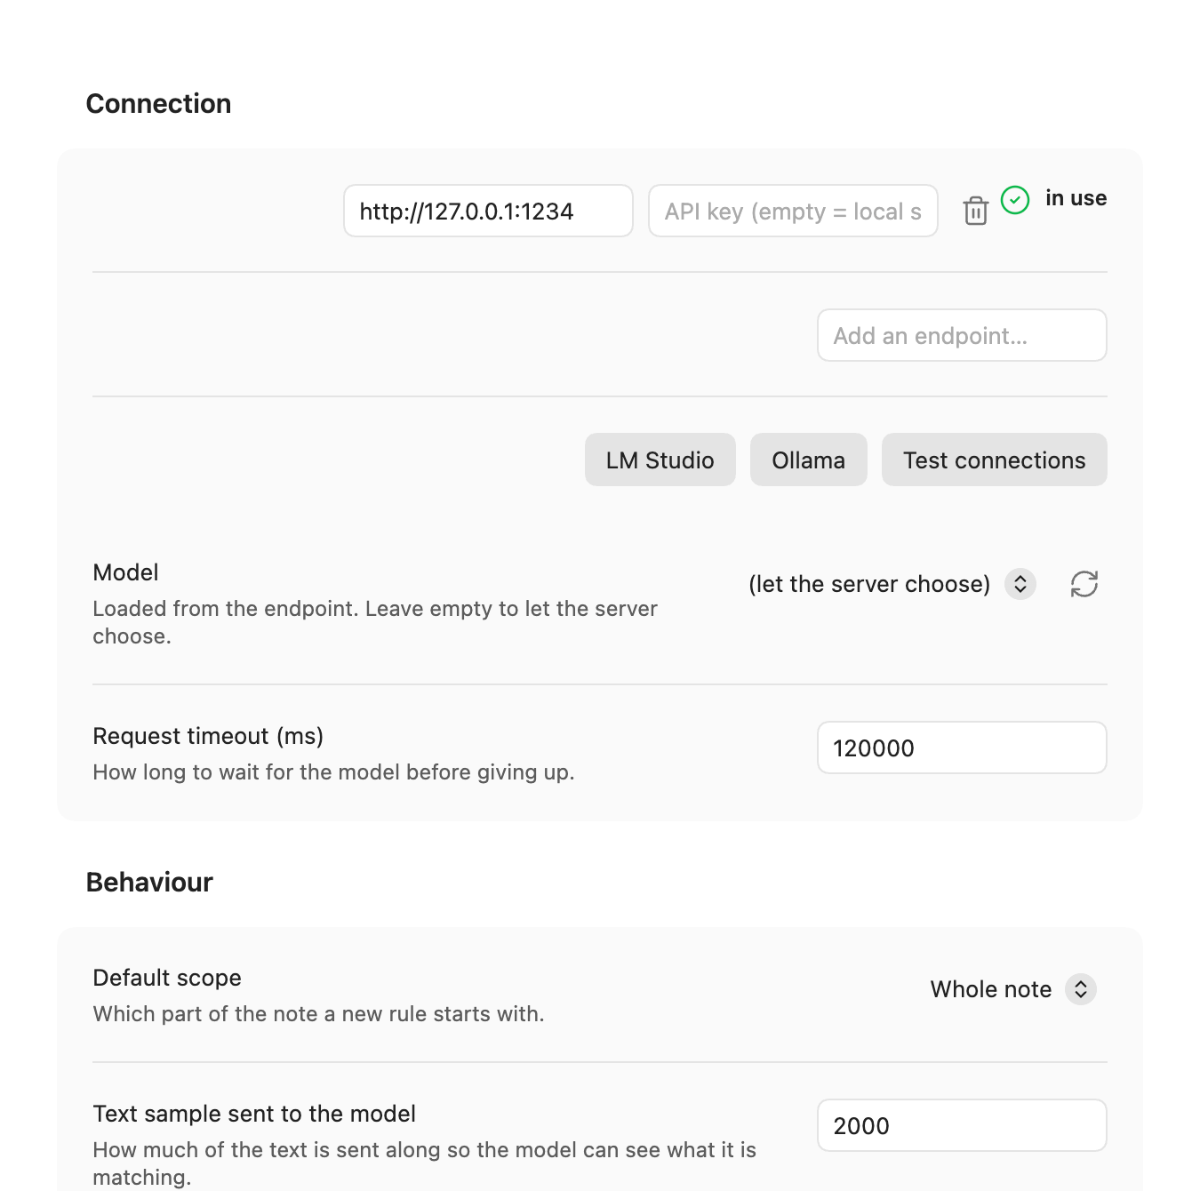
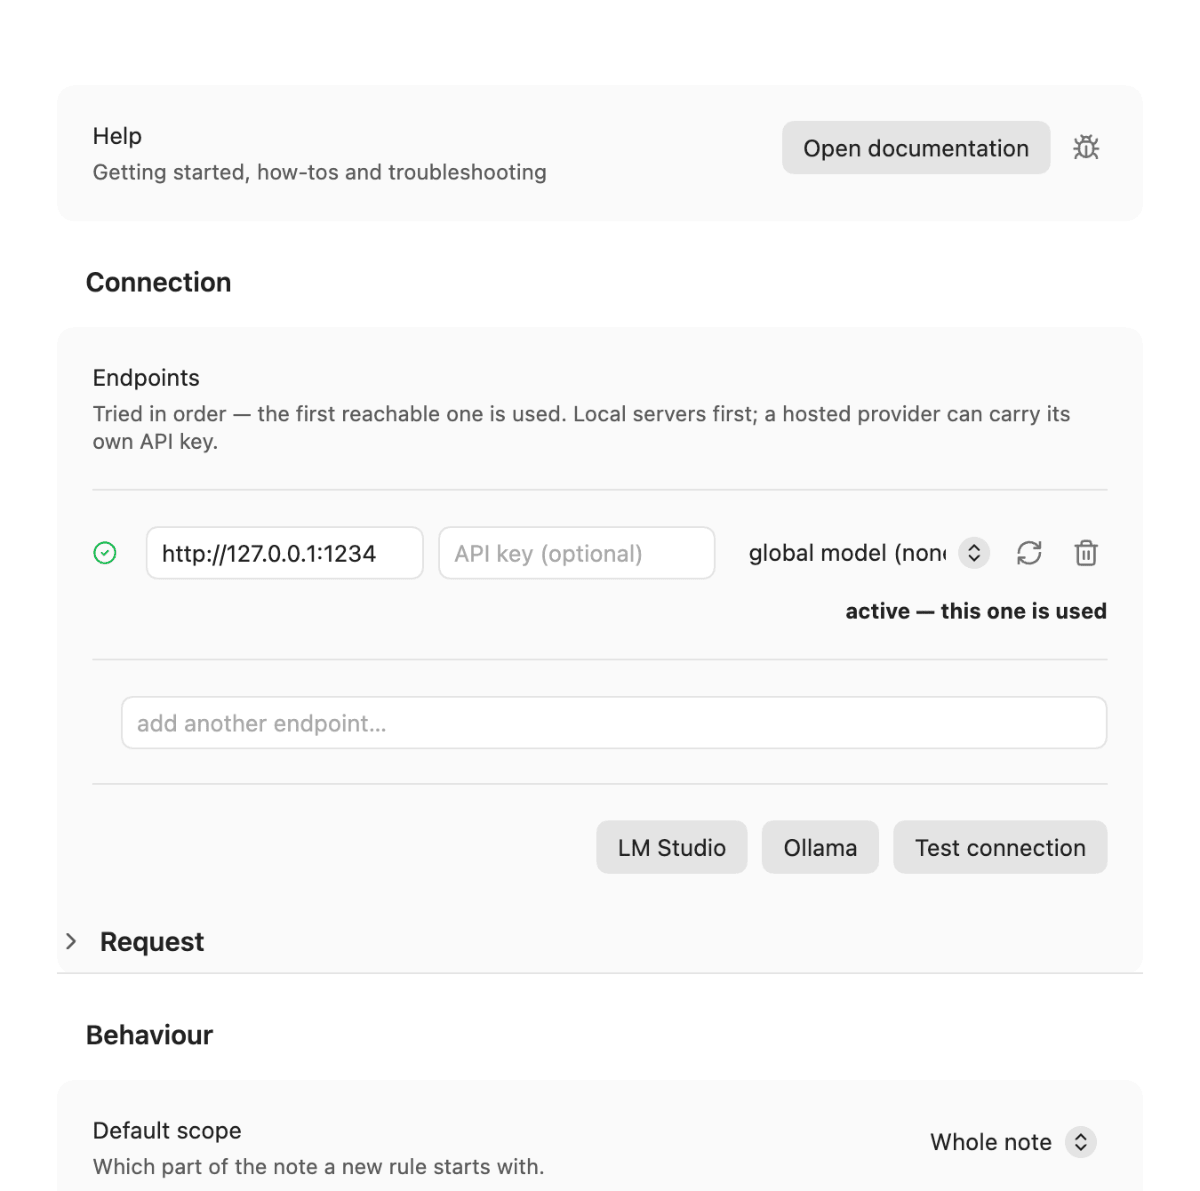
docs(readme): settings.png nach dem Verbindungs-Tausch neu aufgenommen

diff --git a/docs/images/README.md b/docs/images/README.md
@@ -27,7 +27,7 @@ hier nicht wiederholt: `_docs/readme/readme-spec.json`, Block `images`. Geprüft
 | `preview.png` | `hero` | README (Hero) | Das Panel neben einer offenen Notiz, mit **fertiger Vorschau**: Muster, Ersetzung, Trefferzahl und mindestens zwei Treffer mit Vorher-/Nachher-Zeile. Das ist die Kernaussage des Plugins — nichts wird geschrieben, bevor man es gesehen hat. |
 | `vault-scope.png` | `feature` | README (§ Scope) | Bereich **„Whole vault"** mit den drei Filterfeldern (Folder · Tag · Property), der Zeile „N of M notes" und der **zweistufigen Trefferliste**: Dateizeilen mit Trefferzahl, davon **eine aufgeklappt**. Belegt, dass auch ein vault-weiter Lauf vor dem Schreiben gezeigt wird. |
 | `rule-editor.png` | `feature` | README (§ Edit the pattern) | Die editierbaren Felder (Muster, Ersetzung, Flags) **und den aufgeklappten Spickzettel**. Zeigt den Lernpfad: das Muster ist kein Orakel, sondern ein Formular. |
-| `settings.png` | `feature` | README (§ Configuration) | Den Einstellungs-Tab mit der **Endpunkt-Zeile samt Erreichbarkeits-Status** („in use"), den Ein-Klick-Voreinstellungen (LM Studio · Ollama) und den Verhaltens-Optionen. Zeigt, dass die Endpunkt-Kette konfigurierbar ist und ihren Zustand meldet. |
+| `settings.png` | `feature` | README (§ Configuration) | Den Einstellungs-Tab mit der **Endpunkt-Liste aus dem Kit samt Erreichbarkeits-Status** („active — this one is used"), den Ein-Klick-Voreinstellungen (LM Studio · Ollama), dem eingeklappten Anfrage-Abschnitt und den Verhaltens-Optionen. Zeigt, dass die Endpunkt-Kette konfigurierbar ist und ihren Zustand meldet. Neu aufgenommen nach dem Verbindungs-Tausch (Welle 15). |
 
 ## Reproduktion
 

diff --git a/CHANGELOG.md b/CHANGELOG.md
@@ -6,6 +6,10 @@ All notable changes to this project are documented here. The format follows
 
 ## [Unreleased]
 
+### Documentation
+
+- Re-captured the settings screenshot to show the shared endpoint list and request section.
+
 ## [0.10.0] — 2026-10-09
 
 ### Changed
